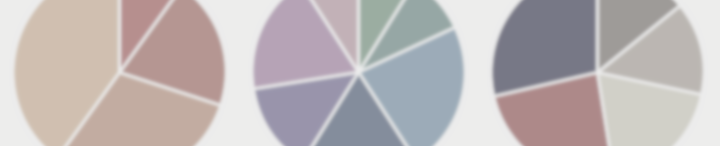
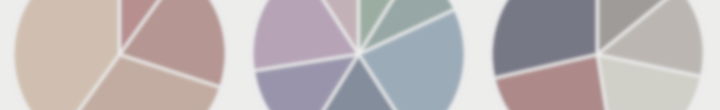
some changes in the main page styling

diff --git a/styles/index.scss b/styles/index.scss
@@ -2,7 +2,7 @@ body {
   background-color: #D3D3D3;
 }
 .body {
-  margin-top: 155px;
+  margin-top: 145px;
   font-family: 'Old Standard TT', serif;
   text-align: center;
   margin-left: 25em;
@@ -15,7 +15,7 @@ body {
   padding-right: 30px;
   font-family: 'Old Standard TT', serif;
   background: url(pie_chart.png);
-  height: 146px;
+  height: 110px;
 }
 
 .row {

diff --git a/public/styles/index.css b/public/styles/index.css
@@ -3,7 +3,7 @@ body {
 }
 
 .body {
-  margin-top: 155px;
+  margin-top: 145px;
   font-family: 'Old Standard TT', serif;
   text-align: center;
   margin-left: 25em;
@@ -16,7 +16,7 @@ body {
   padding-right: 30px;
   font-family: 'Old Standard TT', serif;
   background: url(pie_chart.png);
-  height: 146px;
+  height: 110px;
 }
 
 .row {
